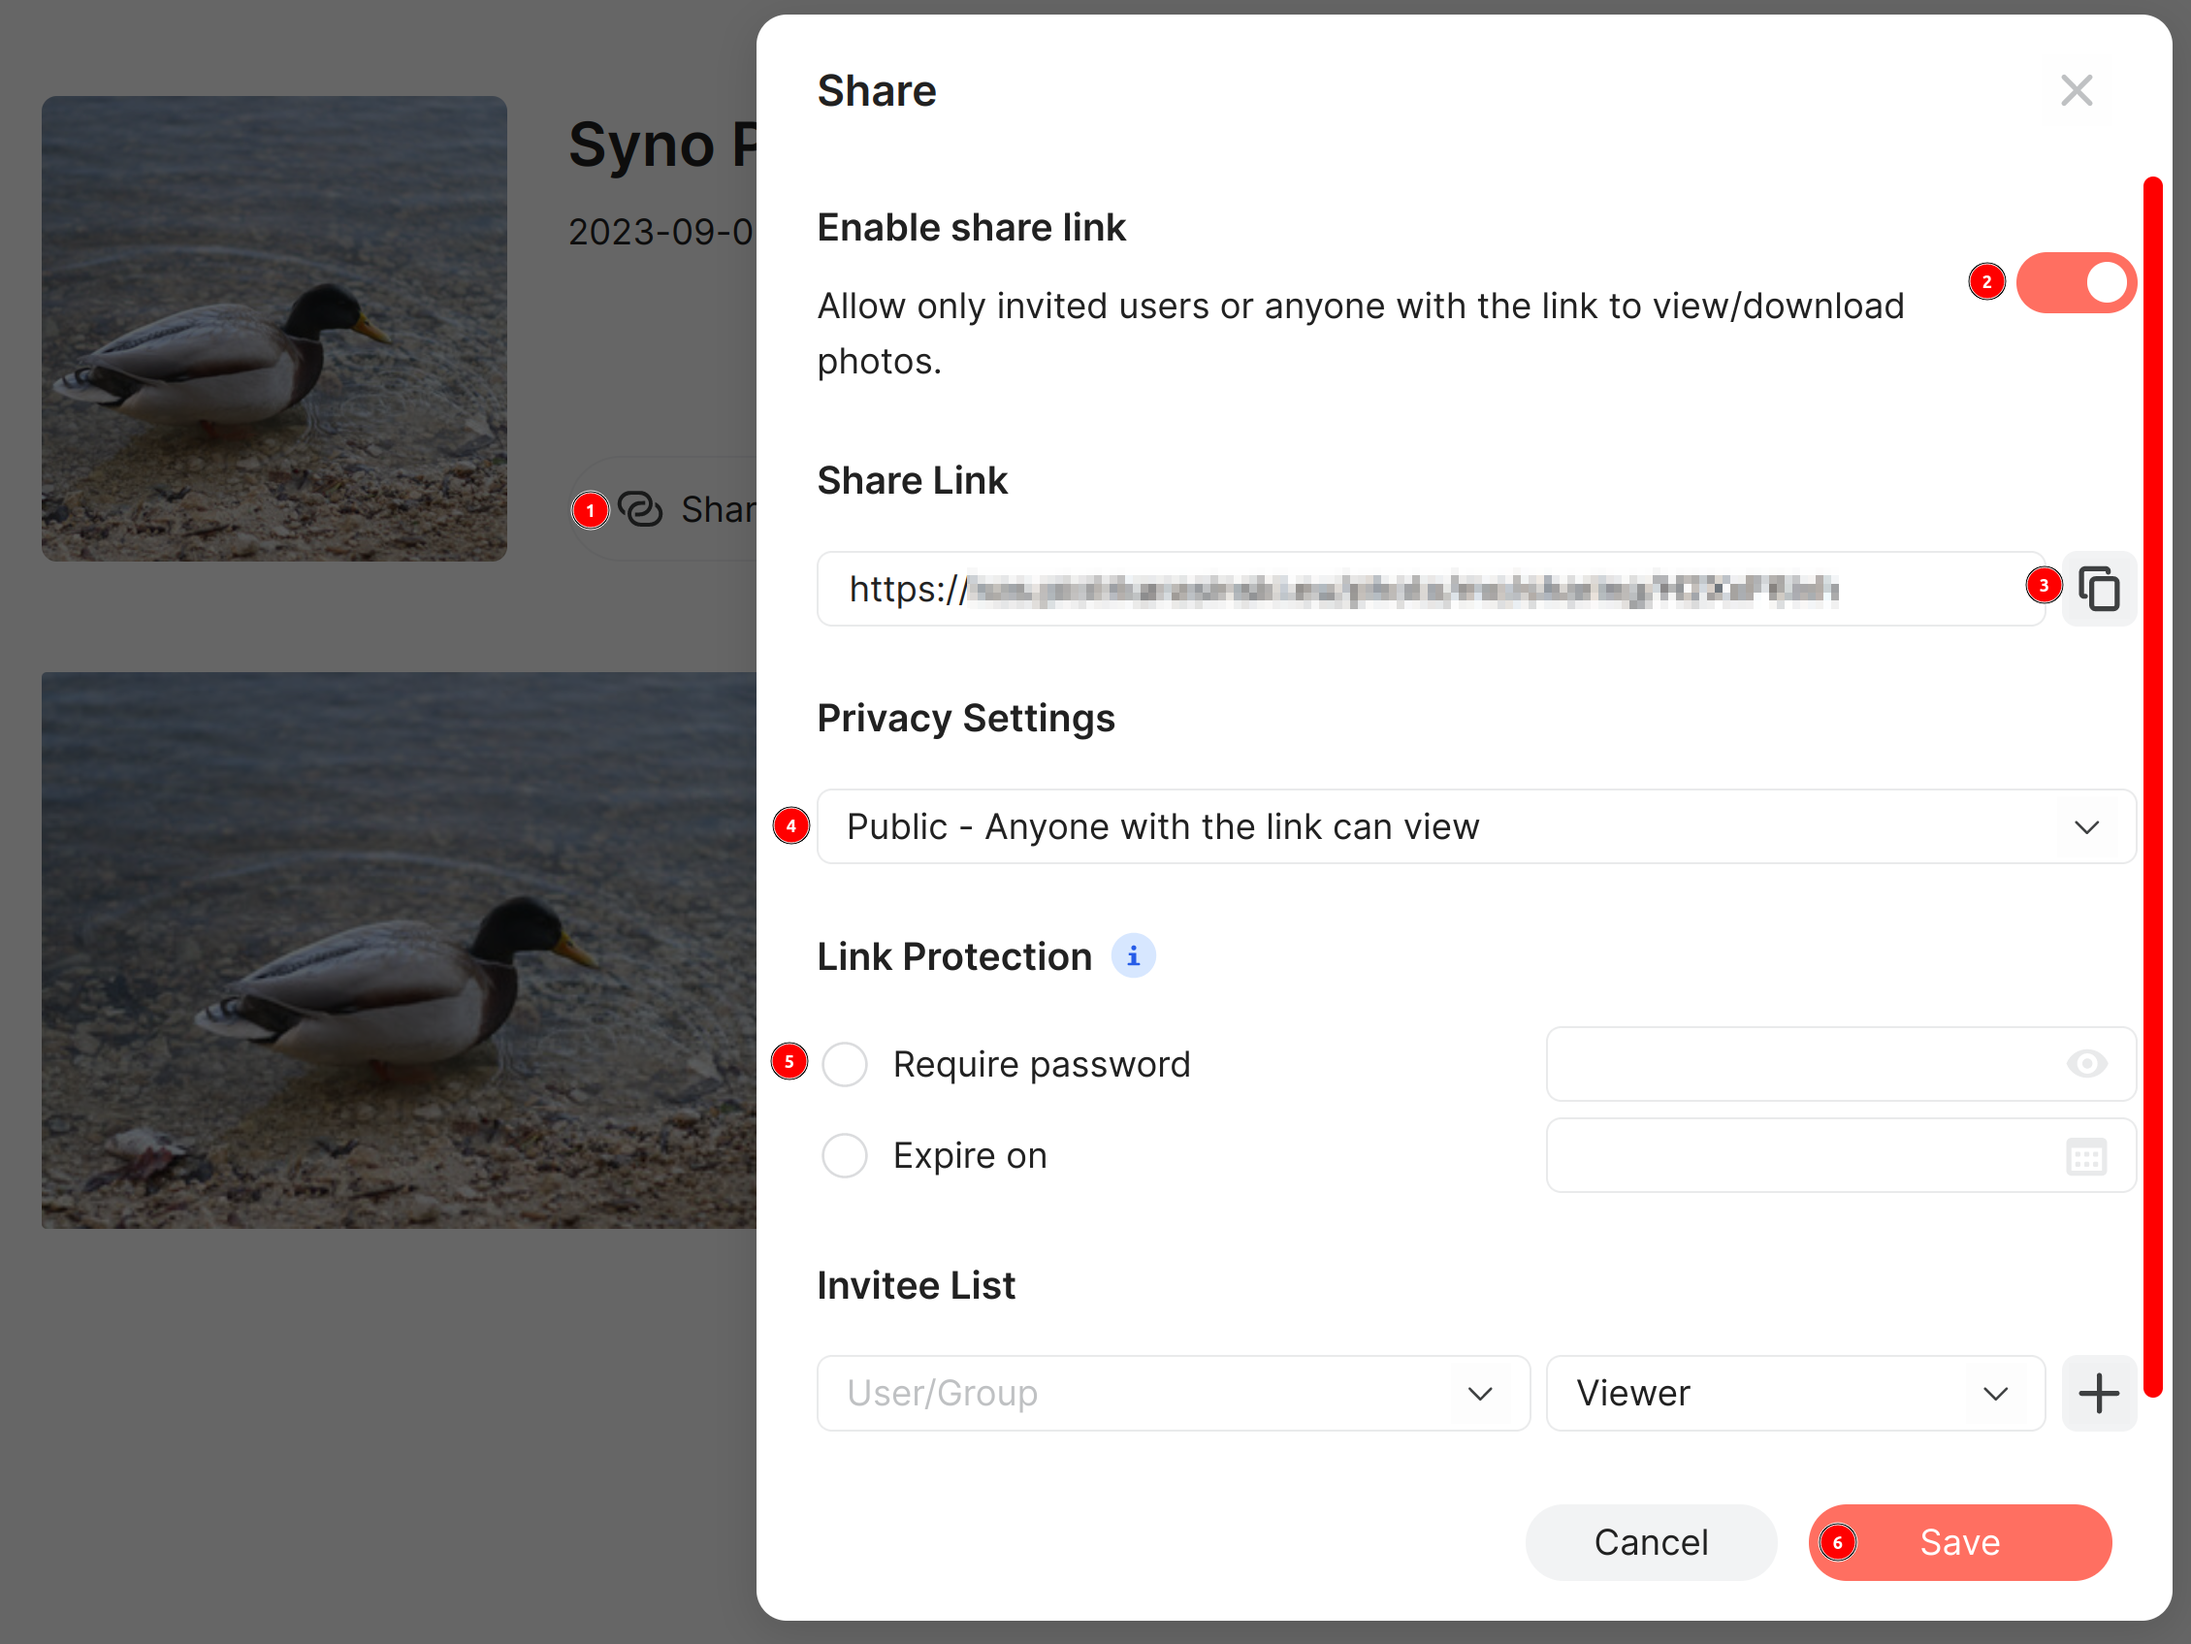
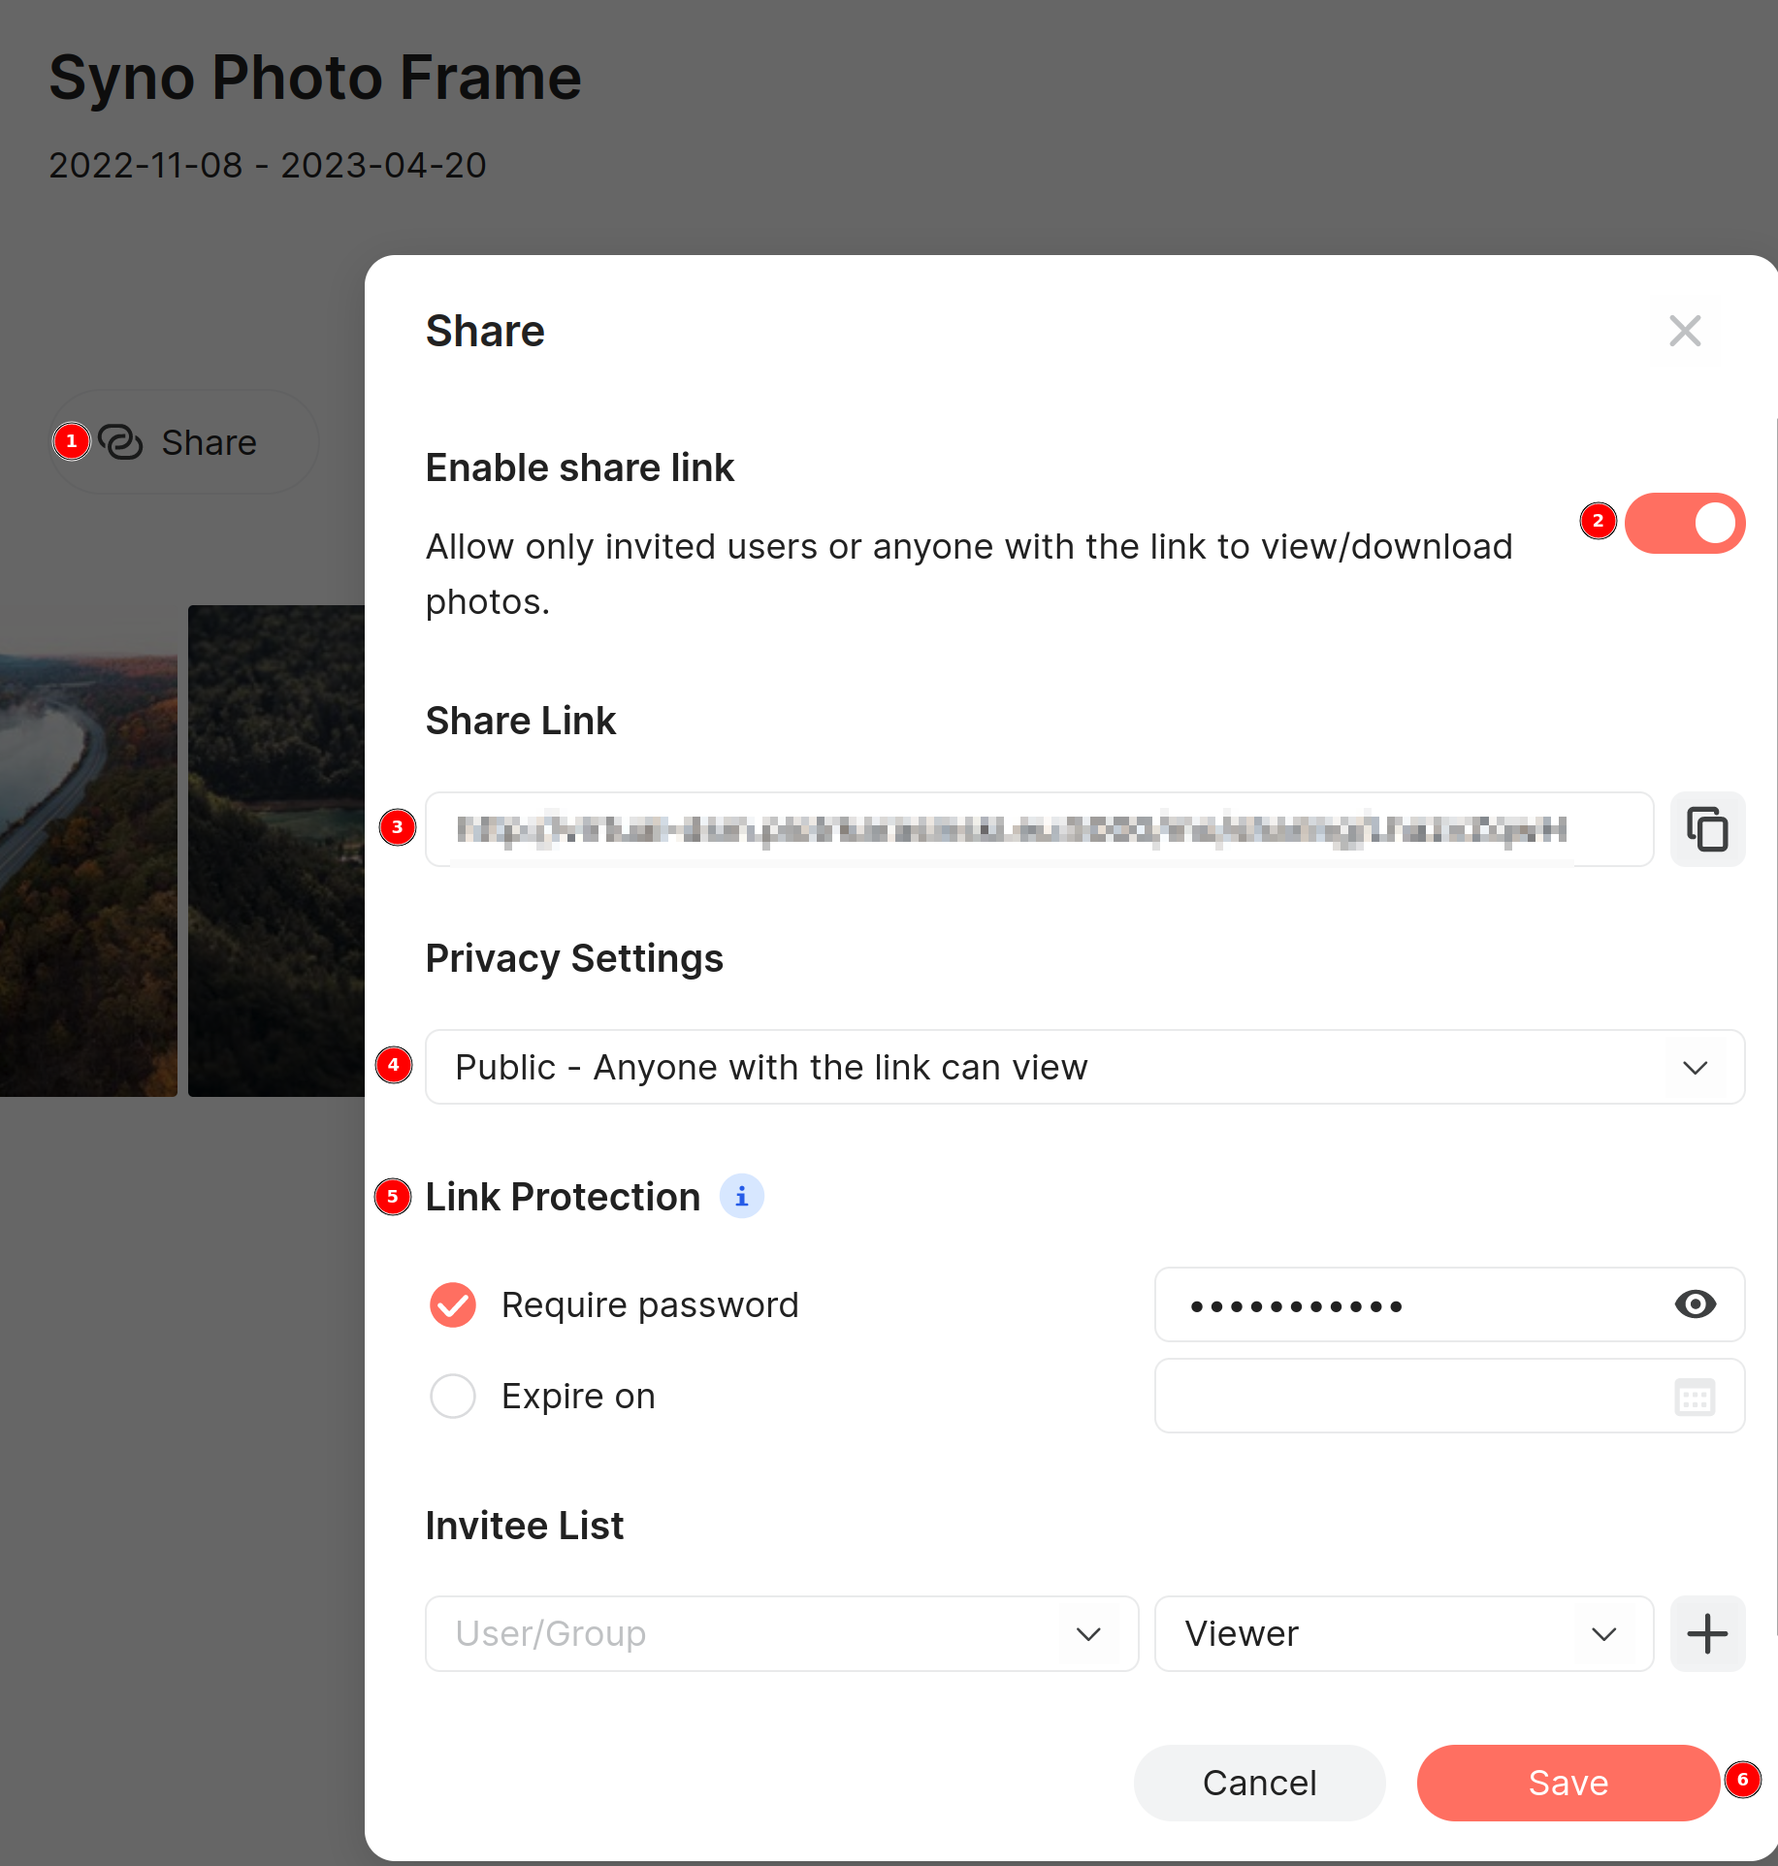
Add support for password protected albums via --password option

diff --git a/src/slideshow.rs b/src/slideshow.rs
@@ -11,24 +11,26 @@ use crate::{
 
 /// Holds the slideshow state and queries API to fetch photos.
 #[derive(Debug)]
-pub(crate) struct Slideshow {
+pub(crate) struct Slideshow<'a> {
     api_url: Url,
     sharing_id: SharingId,
+    password: &'a Option<String>,
     /// Indices of photos in an album in reverse order (so we can pop them off easily)
     photo_display_sequence: Vec<u32>,
     order: Order,
     source_size: SourceSize,
 }
 
-impl TryFrom<&Url> for Slideshow {
+impl<'a> TryFrom<&Url> for Slideshow<'a> {
     type Error = String;
 
-    fn try_from(share_link: &Url) -> Result<Slideshow, Self::Error> {
+    fn try_from(share_link: &Url) -> Result<Slideshow<'a>, Self::Error> {
         let (api_url, sharing_id) = api_photos::parse_share_link(share_link)?;
 
         Ok(Slideshow {
             api_url,
             sharing_id,
+            password: &None,
             photo_display_sequence: vec![],
             order: Order::ByDate,
             source_size: SourceSize::L,
@@ -36,7 +38,12 @@ impl TryFrom<&Url> for Slideshow {
     }
 }
 
-impl Slideshow {
+impl<'a> Slideshow<'a> {
+    pub(crate) fn with_password(mut self, password: &'a Option<String>) -> Self {
+        self.password = password;
+        self
+    }
+
     pub(crate) fn with_ordering(mut self, order: Order) -> Self {
         self.order = order;
         self
@@ -53,7 +60,8 @@ impl Slideshow {
         random: Random,
     ) -> Result<Bytes, String> {
         if !self.is_logged_in(cookie_store) {
-            api_photos::login(client, &self.api_url, &self.sharing_id).map_err_to_string()?;
+            api_photos::login(client, &self.api_url, &self.sharing_id, &self.password)
+                .map_err_to_string()?;
         }
 
         if self.slideshow_ended() {
@@ -147,7 +155,7 @@ impl Slideshow {
     }
 }
 
-/// These tests cover both `slideshow` and `api` modules
+/// These tests cover both `slideshow` and `api_photos` modules
 #[cfg(test)]
 mod tests {
     use super::*;
@@ -667,6 +675,7 @@ mod tests {
             ("method", "login"),
             ("version", "1"),
             ("sharing_id", sharing_id),
+            ("password", ""),
         ])
     }
 

diff --git a/src/lib.rs b/src/lib.rs
@@ -46,6 +46,7 @@ pub fn run(
 ) -> Result<(), String> {
     let slideshow = Arc::new(Mutex::new(
         Slideshow::try_from(&cli.share_link)?
+            .with_password(&cli.password)
             .with_ordering(cli.order)
             .with_source_size(cli.source_size),
     ));
@@ -115,7 +116,7 @@ fn show_welcome_screen(sdl: &mut impl Sdl, custom_splash: &Option<PathBuf>) -> R
 }
 
 fn get_next_photo_thread<'a>(
-    slideshow: &Arc<Mutex<Slideshow>>,
+    slideshow: &'a Arc<Mutex<Slideshow>>,
     (client, cookie_store): (&'a impl Client, &Arc<dyn CookieStore>),
     dimensions: (u32, u32),
     random: Random,

diff --git a/src/cli.rs b/src/cli.rs
@@ -15,8 +15,12 @@ use crate::http::Url;
 pub struct Cli {
     /// Link to a publicly shared album on Synology Photos
     ///
-    /// Note that the album's privacy settings must be set to Public and link password protection must be disabled
+    /// Note that the album's privacy settings must be set to Public
     pub share_link: Url,
+
+    /// Link protection password if set in the album sharing settings
+    #[arg(short = 'p', long = "password")]
+    pub password: Option<String>,
 
     /// Photo change interval in seconds
     ///

diff --git a/src/api_photos.rs b/src/api_photos.rs
@@ -35,12 +35,14 @@ pub(crate) fn login(
     client: &impl Client,
     api_url: &Url,
     sharing_id: &SharingId,
+    password: &Option<String>,
 ) -> Result<(), PhotosApiError> {
     let params = [
         ("api", "SYNO.Core.Sharing.Login"),
         ("method", "login"),
         ("version", "1"),
         ("sharing_id", &sharing_id.0),
+        ("password", password.as_deref().unwrap_or_default()),
     ];
     let response = client.post(api_url.as_str(), &params, None)?;
     read_response(response, |response| {

diff --git a/README.md b/README.md
@@ -16,12 +16,11 @@ __If you like the project, give it a star ⭐, or consider becoming a__
 
 - [Syno Photo Frame](#syno-photo-frame)
   - [Why?](#why)
-    - [Security Disclaimer](#security-disclaimer)
   - [Setup](#setup)
     - [Synology Photos (NAS)](#synology-photos-nas)
     - [Raspberry Pi](#raspberry-pi)
-      - [Install From Debian Package](#install-from-debian-package)
-      - [Alternative: Build From Source](#alternative-build-from-source)
+      - [Option 1: Install From Debian Package](#option-1-install-from-debian-package)
+      - [Option 2: Build From Source](#option-2-build-from-source)
   - [Run](#run)
   - [Optional Stuff](#optional-stuff)
     - [Increase swap size on Raspberry Pi Zero](#increase-swap-size-on-raspberry-pi-zero)
@@ -49,15 +48,6 @@ static image app, which matters when using Raspberry Pi, especially in
 the Zero variant.
 
 
-### Security Disclaimer
-
-Since I am running all of this over local area network at home only,
-security is not a priority for me. You should take extra steps which
-are out of scope of this guide if you plan to access your NAS over
-Internet, or if you're running this setup in an un-trusted LAN
-(e.g. in an office or a dorm).
-
-
 ## Setup
 
 ### Synology Photos (NAS)
@@ -68,12 +58,14 @@ Assuming Synology Photos package is installed on DSM
    the distinction between an "album" and a "folder")
 1. Click "Share" button in the album
 2. Check "Enable share link" option
-3. Copy the Share Link somewhere - you'll need it when setting up the
-   app on Raspberry Pi later on
-4. Set Privacy Settings to "Public - Anyone with the link can view"
-5. __Do NOT enable Link Protection__ - support for password protection
-   might get implemented in the future, for now the assumption is that
-   the NAS and Pi are on the same *private* LAN.
+3. Copy / write down the Share Link - you'll need it when setting up
+   the app on Raspberry Pi later on
+4. Set Privacy Settings to one of the "Public" options
+5. Optionally, enable Link Protection - if password is set, you will
+   need to provide it using the `--password` option when running the
+   app on Raspberry Pi. In case of accessing the NAS over internet or
+   an untrusted LAN, I recommend making sure your share link uses the
+   HTTPS (not HTTP) scheme to prevent exposing the password.
 6. Click Save
 
 ![Share Album](doc/ShareLink.png)
@@ -86,7 +78,7 @@ Raspberry Pi OS Lite, network has been set up (so you can access the
 Synology NAS) and you have command line access to the Pi.
 
 
-#### Install From Debian Package
+#### Option 1: Install From Debian Package
 
 Update the system
 
@@ -100,8 +92,8 @@ apt upgrade -y'
 contains pre-built .deb packages for aarch64 Linux target, which
 should work on Raspberry Pi 3 and up, as well as Zero 2 (assuming
 64bit version of Raspbian OS is installed). For other platforms you
-must build the project yourself - see [Alternative: Build From
-Source](#alternative-build-from-source).
+must build the project yourself - see [Option 2: Build From
+Source](#option-2-build-from-source).
 
 Check the installed version of Debian with `lsb_release -c` and
 download appropriate
@@ -113,11 +105,11 @@ Debian 11 ("bullseye") and 12 ("bookworm").
 the app (adjust the filename appropriately):
 
 ```
-sudo apt install ./syno-photo-frame_0.7.0_arm64_bookworm.deb
+sudo apt install ./syno-photo-frame_0.10.0_arm64_bookworm.deb
 ```
 
 
-#### Alternative: Build From Source
+#### Option 2: Build From Source
 
 [Install Rust](https://www.rust-lang.org/tools/install) if you have
 not already.
@@ -138,10 +130,12 @@ Install the app from [crates.io](https://crates.io/crates/syno-photo-frame):
 cargo install syno-photo-frame
 ```
 
-The binary is then located at `$HOME/.cargo/bin/syno-photo-frame` and
-should be available on your `$PATH`.
+When building is finished, the binary is then located at
+`$HOME/.cargo/bin/syno-photo-frame` and should be available on your
+`$PATH`.
 
-Alternatively, clone the git repository and build the project with:
+Alternatively, clone the git repository and build the project with (in
+cloned directory):
 ```
 cargo build --release
 ```
